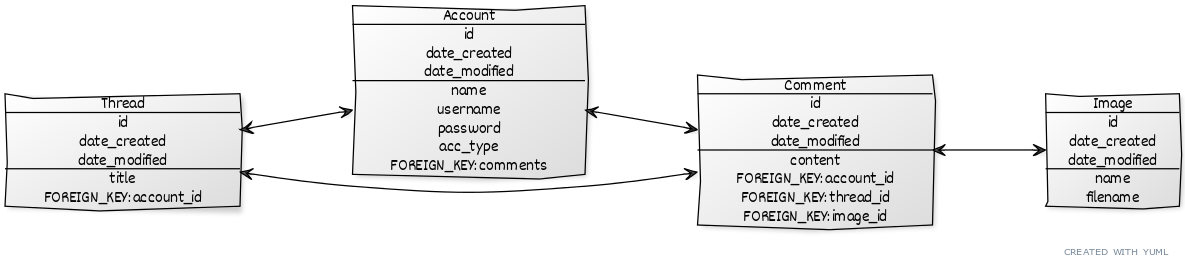
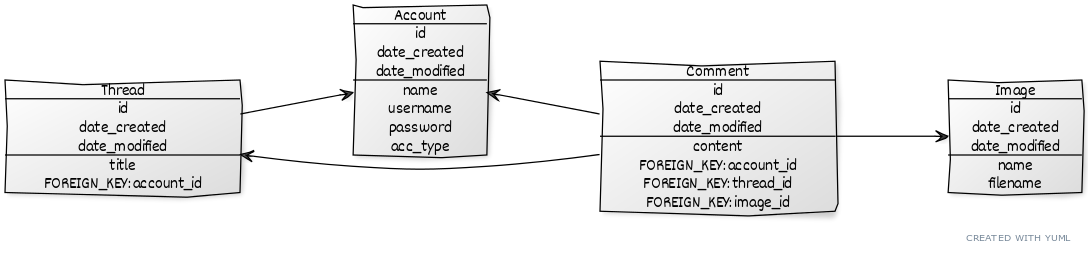
Heroku update

diff --git a/application/__init__.py b/application/__init__.py
@@ -8,8 +8,12 @@ DEFAULT_ADMIN_PASSWORD = "admin"
 app = Flask(__name__)
 
 from flask_sqlalchemy import SQLAlchemy
-app.config["SQLALCHEMY_DATABASE_URI"] = "sqlite:///board.db"
-app.config["SQLALCHEMY_ECHO"] = True
+
+if os.environ.get("HEROKU"):
+    app.config["SQLALCHEMY_DATABASE_URI"] = os.environ.get("DATABASE_URL")
+else:
+    app.config["SQLALCHEMY_DATABASE_URI"] = "sqlite:///tasks.db"    
+    app.config["SQLALCHEMY_ECHO"] = True
 
 db = SQLAlchemy(app)
 

diff --git a/application/auth/models.py b/application/auth/models.py
@@ -11,8 +11,6 @@ class User(Base):
 
     acc_type = db.Column(db.String(15), nullable=False)
 
-    comments = db.relationship("Comment", backref='account', lazy=True)
-
     def __init__(self, name, username, password):
         self.name = name
         self.username = username
